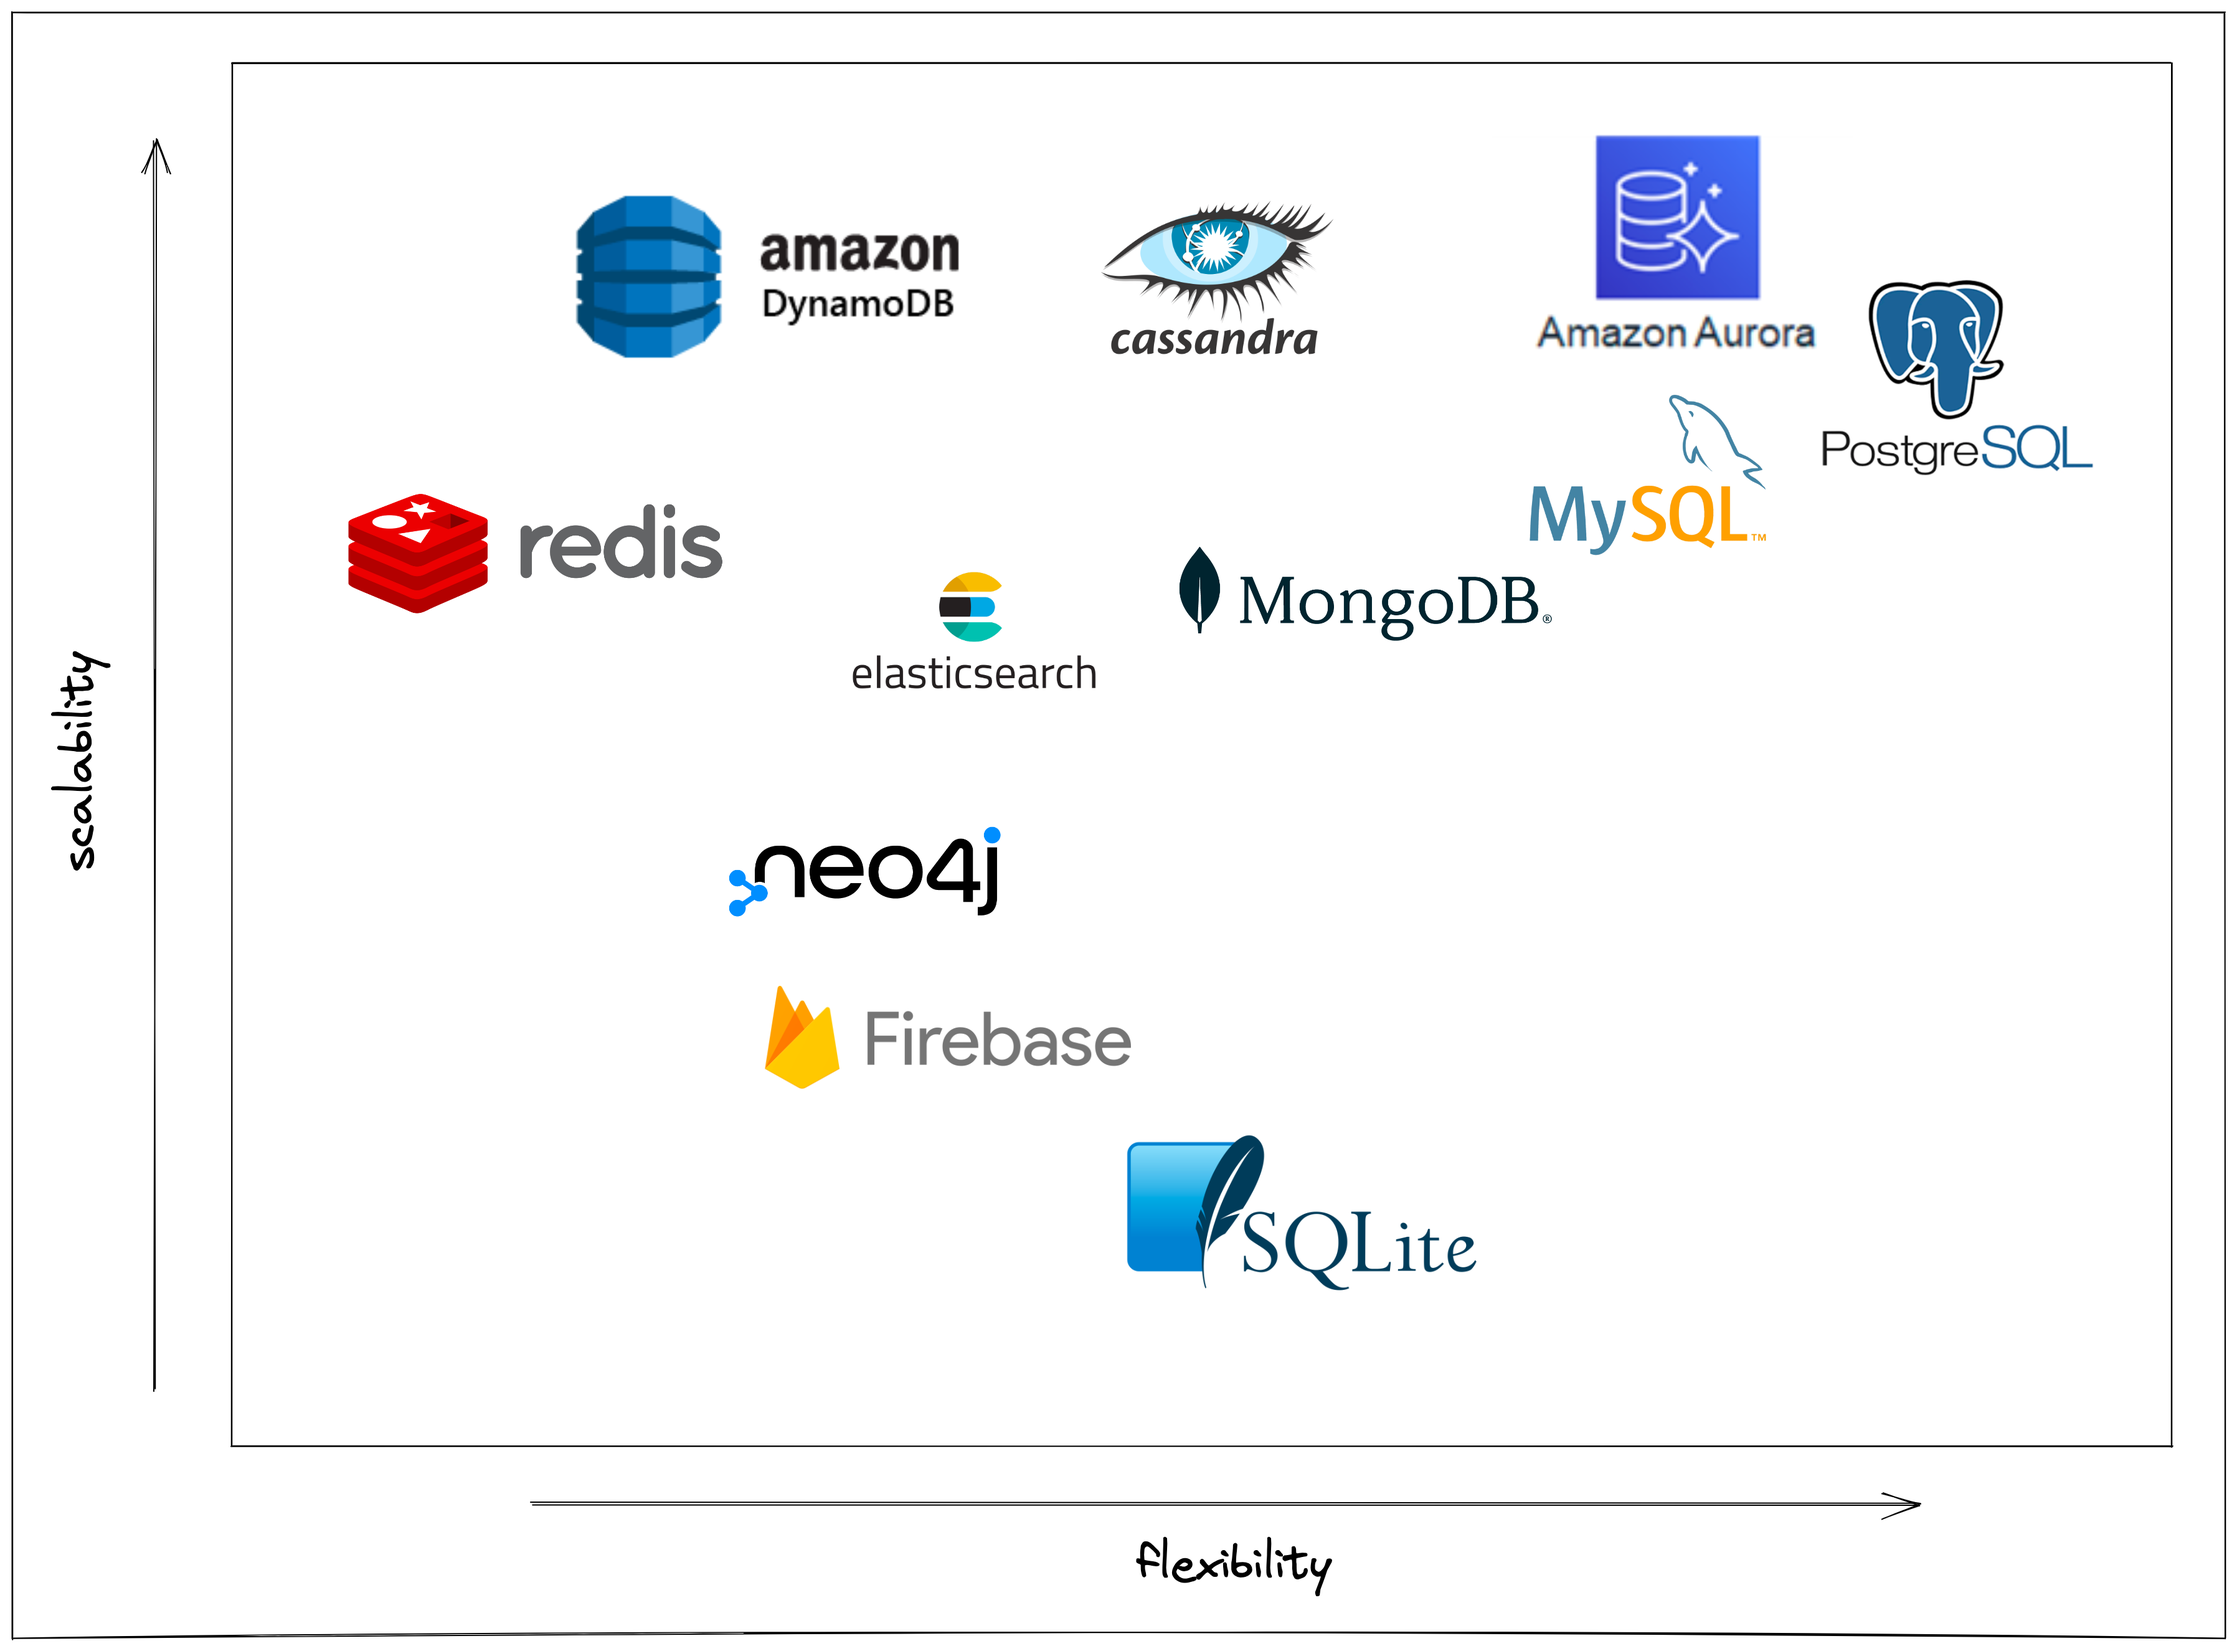
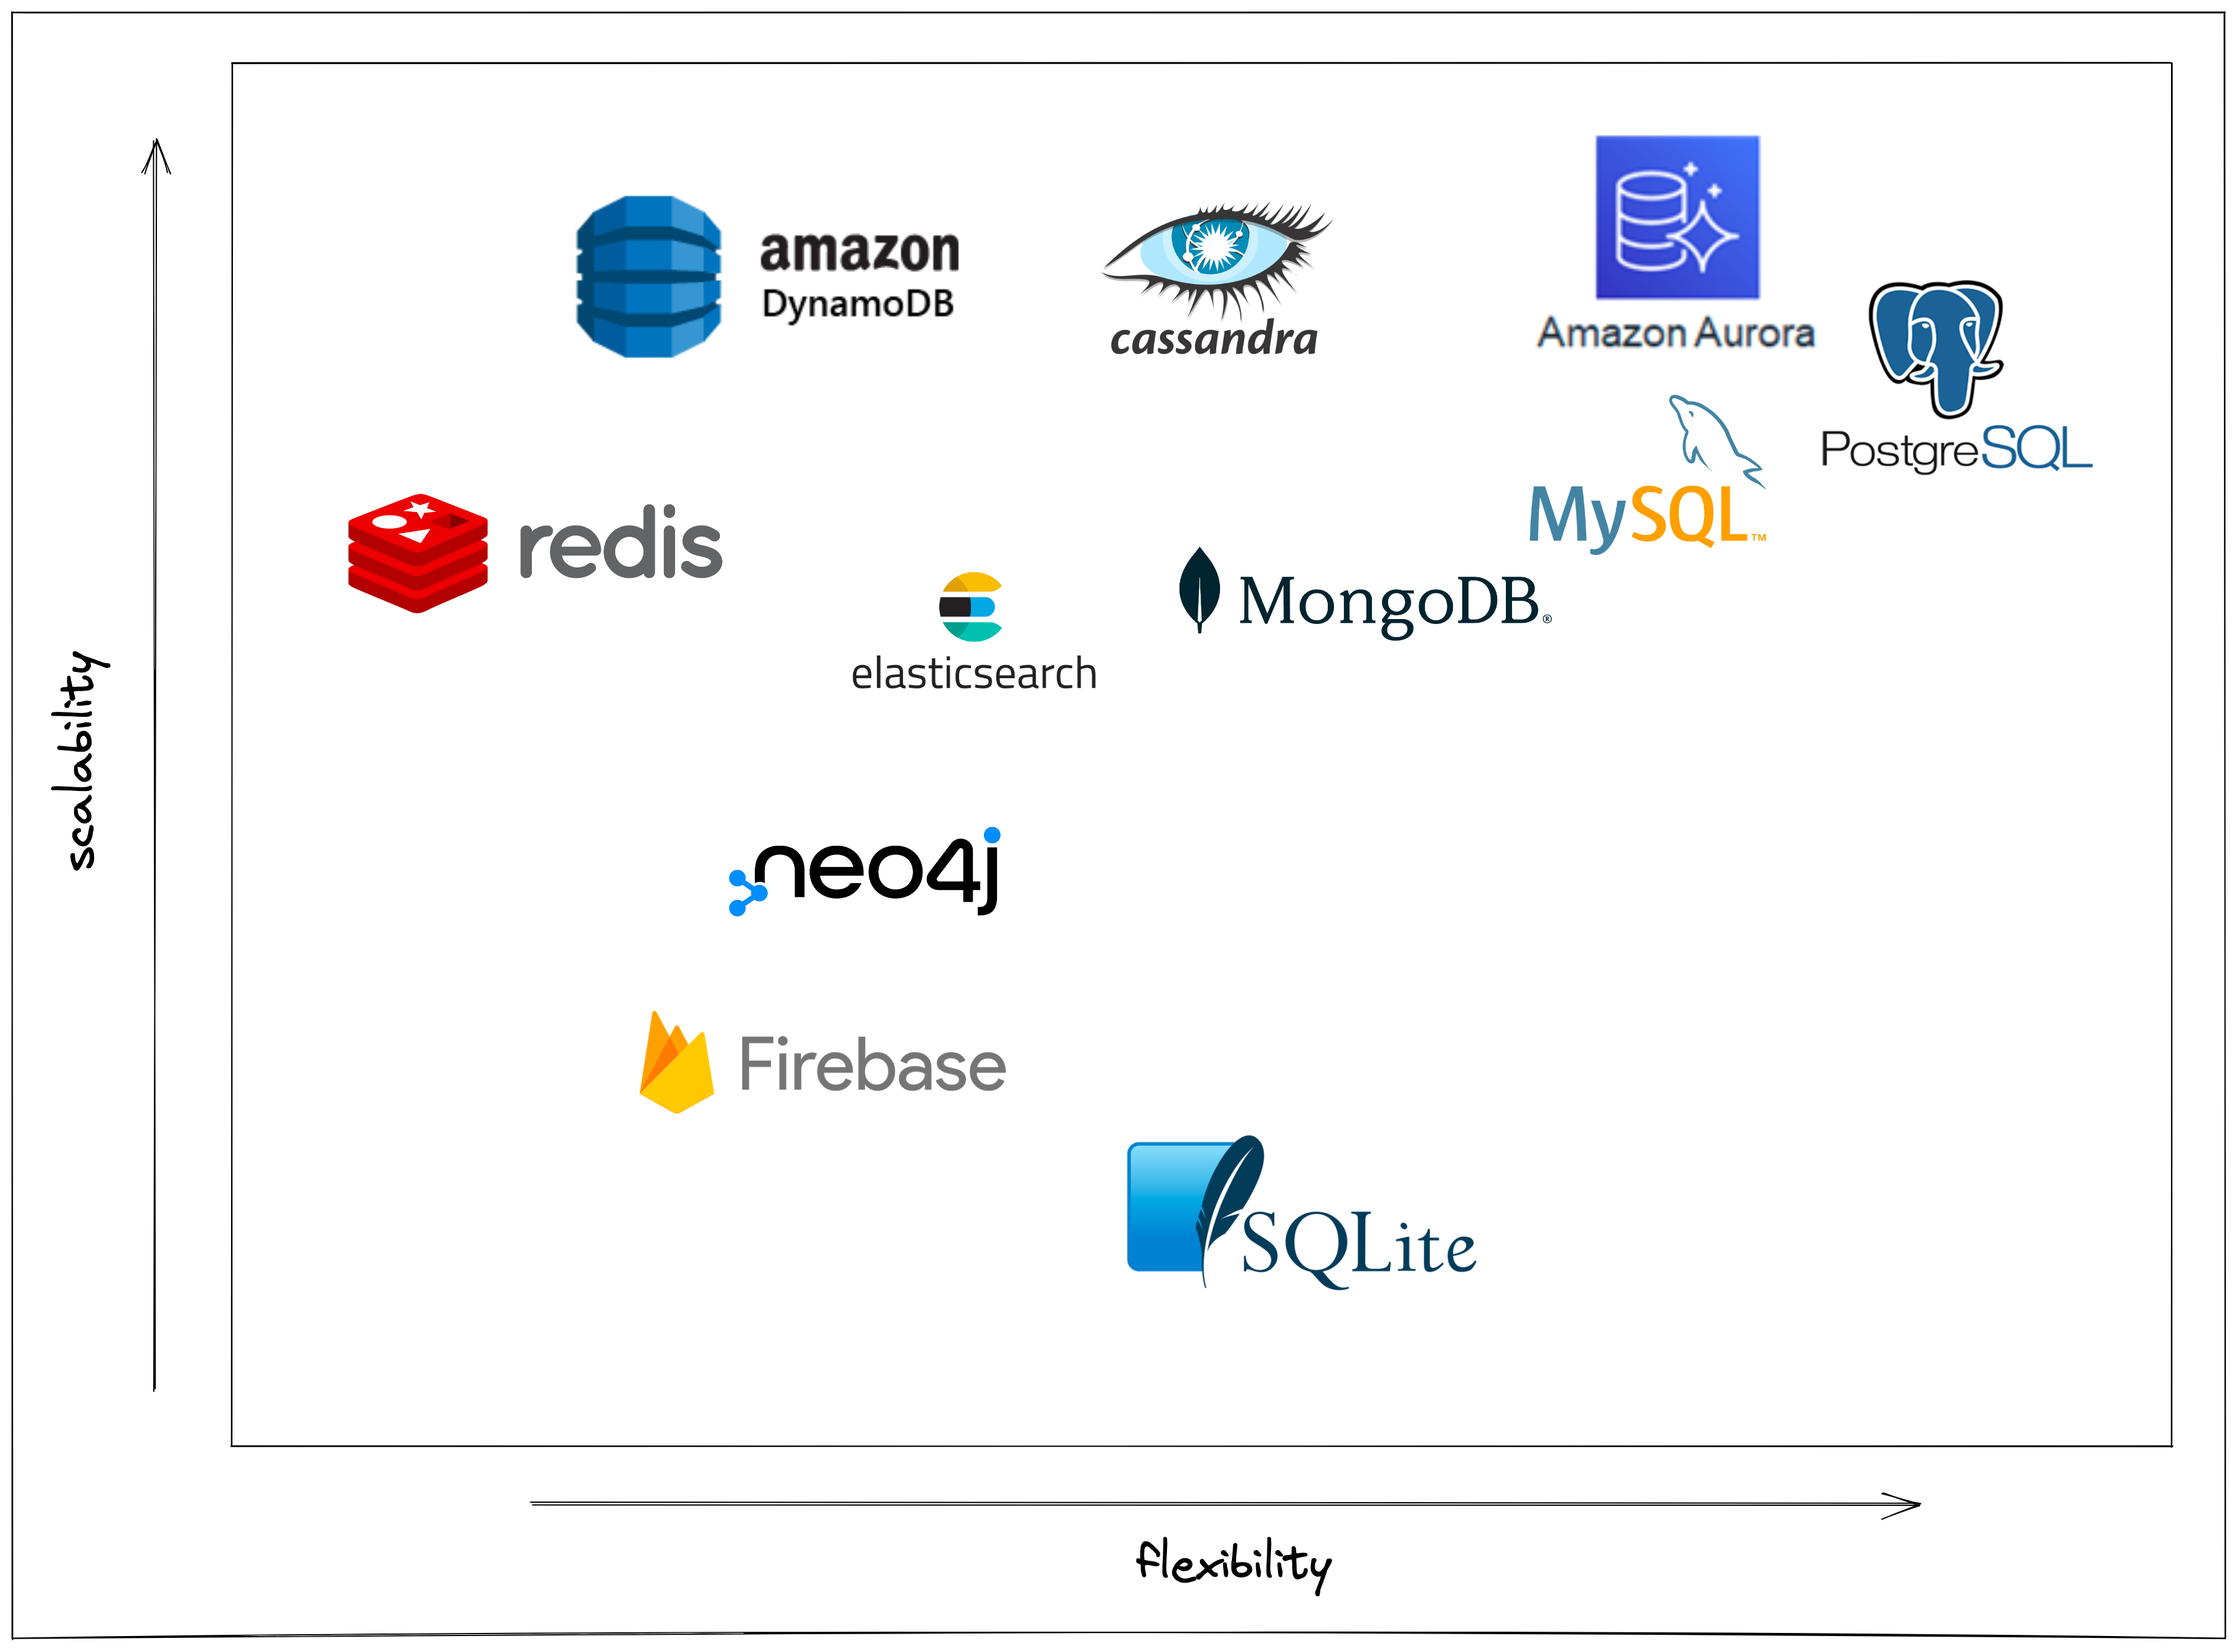
update

Changed region(s): [[0.2806, 0.5877, 0.4989, 0.6805]]

diff --git a/posts/8_my_stack.md b/posts/8_my_stack.md
@@ -1,32 +1,33 @@
 ---
-title: There's more than one way to skin a cat - My Stack
+title: There's more than one way to skin a cat - Picking The Best Stack
 publish_date: 2022-11-19
 ---
 
-# There's more than one way to skin a cat.
-
-When building an internet application, there is a million ways to do it. The core conponets of a stack boil down to three main parts. A display layer, logic layer, and data store layer.
-
-![three components of a stack](../photos/stack.png)
-
-Most of the worlds code is written for the internet. There's game dev, embedded systems, data science and others but the majority of code primarly revolves around web, mobile, and backend development.
-
-There's a million different ways you can piece together technologies to build a web application. In this article I explain my approach for the stack that I choose to build with. After you read, send me a message with your thoughts.
+When building an internet application, there is a million ways to do it. With so many decisions to make, what is the best stack to pick? In this article I go through my thought process on how I chose to build with the stack I use.
 
 # Philosophy For Picking A Stack
 
-With that ground level laid, let's dive into the actual stack. This stack is chosen with these two philosophies in mind.
+When I am making these kinds of decisions, I look at it through two main lenses.
 
 > Maximize developer productivity
 
-> Minimize technical debt
+Maximizing developer productivity means building only what is unique about what you are building. If you need auth, a web framework, a backend framework, etc, then just pull in something that's already been built before. There's no need to build that again when there are some really awesome open source solutions.
 
-Maximizing developer productivity means building only what is unique about what you are building. If you need auth, a web framework, a backend framework, etc, then just pull in something that's already been built before. There's no need to build that again when the solutions out there are really good and they are open source.
+In two of my diagrams I use the word `modernness` on the Y axis. "Modernness" has a direct correlation with maximizing developer productivity. 
+
+> Minimize technical debt
 
 Minimizing technical debt means never building something that engineers are going to have to rewrite sometime down the road. It takes 5x longer to fix technical debt than it is to just do it right in the first place. This includes picking a stack that scales. I've seen so many companies pick a stack "in the name of speed" only to be hammered when they have to rebuild it differently down the road.
 
-Some examples include companies that start with Firebase. Firebase is cute when you are starting because it takes care of a lot of heavy lifting. It becomes a nightmare though when you need switch off of it. Another example is companies that picked Ruby on Rails. It looks good in the beginning with all of the batteries included. It becomes a nightmare at scale when you have more than 5 engineers working on it.
+In two of my diagrams I use the word `production readiness` on the X axis. "Production readiness" has a direct correlation with minimizing technical debt. 
 
+<!-- Some examples include companies that start with Firebase. Firebase is cute when you are starting because it takes care of a lot of heavy lifting. It becomes a nightmare though when you need switch off of it. Another example is companies that picked Ruby on Rails. It looks good in the beginning with all of the batteries included. It becomes a nightmare at scale when you have more than 5 engineers working on it. -->
+
+# Components Of A Stack
+
+The core conponets of a stack boil down to three main parts. A display layer, logic layer, and data store layer.
+
+![three components of a stack](../photos/stack.png)
 # Choosing The Frontend Framework
 
 ![Many different frontend frameworks](../photos/frontend_frameworks.png)
@@ -37,15 +38,15 @@ I like to group the worlds most popular languages into four buckets for backend 
 
 ![four language groups](../photos/language_groups.png)
 
-> C and C++ - They are the OGs, powerful, old, lots of footguns
+> `C and C++` - They are the OGs, powerful, old, lots of footguns
 
-> C# and Java - Enterprise heavyweights, powerful, verbose, legacy
+> `C# and Java` - Enterprise heavyweights, powerful, verbose, legacy
 
-> JavaScript, Ruby, Python, PHP - Easy to learn, interpreted, dynamically typed, slow, lots of logic errors
+> `JavaScript, Ruby, Python, and PHP` - Easy to learn, interpreted, dynamically typed, slow performance, lots of logic errors
 
-> Rust and Go - Compiled, strongly typed, extremely fast, modern
+> `Rust and Go` - Compiled, strongly typed, extremely fast, modern
 
-You may have noticed that TypeScript isn't in a group. TypeScript is in a very interesting place in the current landscape. It's more production ready than its other interpreted counterparts but it still suffers from being quite slow in performance and it's type system isn't good as it should be to be considered amongst the other more production ready langugages.
+<!-- You may have noticed that TypeScript isn't in a group. TypeScript is in a very interesting place in the current landscape. It's more production ready than its other interpreted counterparts but it still suffers from being quite slow in performance and it's type system isn't good as it should be to be considered amongst the other more production ready langugages.
 
 These groups are sorted on two axes. Modernness and Production Readiness.
 
@@ -55,19 +56,33 @@ This one is pretty straight forward. This looks at things like developer product
 
 #### Modernness
 
-This one may not seem as important or straight forward but it is critical to developer productivity. One example is the package management experience. Compare the C++ package management experience vs Rust's package management experience. It's a night and day difference. There's also a lot of language specific differences that make some langauages much easier to code with than others.
+This one may not seem as important or straight forward but it is critical to developer productivity. One example is the package management experience. Compare the C++ package management experience vs Rust's package management experience. It's a night and day difference. There's also a lot of language specific differences that make some langauages much easier to code with than others. -->
 
 #### Rust
 
-In my opinion, Rust is the clear winner. It's uncomprimising in almost every way and it has an extremely modern feel that has made it the most loved language for the past 7 years. ([2016](https://insights.stackoverflow.com/survey/2016#technology-most-loved-dreaded-and-wanted), [2017](https://insights.stackoverflow.com/survey/2017#most-loved-dreaded-and-wanted), [2018](https://insights.stackoverflow.com/survey/2018#technology-_-most-loved-dreaded-and-wanted-languages), [2019](https://insights.stackoverflow.com/survey/2019#technology-_-most-loved-dreaded-and-wanted-languages), [2020](https://insights.stackoverflow.com/survey/2020#most-loved-dreaded-and-wanted), [2021](https://insights.stackoverflow.com/survey/2021/#technology-most-loved-dreaded-and-wanted) and [2022](https://survey.stackoverflow.co/2022/#section-most-loved-dreaded-and-wanted-programming-scripting-and-markup-languages))
+In my opinion, Rust is the clear winner. It's uncomprimising in almost every way and it has an extremely modern feel that has made it the most loved language for the past 7 years ([2016](https://insights.stackoverflow.com/survey/2016#technology-most-loved-dreaded-and-wanted), [2017](https://insights.stackoverflow.com/survey/2017#most-loved-dreaded-and-wanted), [2018](https://insights.stackoverflow.com/survey/2018#technology-_-most-loved-dreaded-and-wanted-languages), [2019](https://insights.stackoverflow.com/survey/2019#technology-_-most-loved-dreaded-and-wanted-languages), [2020](https://insights.stackoverflow.com/survey/2020#most-loved-dreaded-and-wanted), [2021](https://insights.stackoverflow.com/survey/2021/#technology-most-loved-dreaded-and-wanted) and [2022](https://survey.stackoverflow.co/2022/#section-most-loved-dreaded-and-wanted-programming-scripting-and-markup-languages)).
 
 ![Most loved languages in 2022](../photos/most_loved_languages.png)
+
+#### TypeScript
 
 As a side note, you may have noticed that TypeScript is floating in limbo in the diagram above. It's in a very unique position. As I explained above, TypeScript is the go-to language for the frontend with almost no contest. Because TypeScript is inevitable, there could be a use case for TypeScript in the backend. There's also so many ways to deploy TypeScript that it makes it extremely easy to deploy and scale. In fact, Next.js has a way to write backend functions embeded right in the framework. If you want to use TypeScript for the whole stack, I would recommend checking out [Create T3 App](https://create.t3.gg/).
 
 # Choosing The Database
 
+The database technology that you choose is probably the most important aspect of your stack. It's fun to choose bleeding edge technologies for the frontend and backend, but you should pick the most reliable option for your database technology.
+
+There are a lot of databases that have a specific use case such as redis or elasticsearch but for this we are going to focus on picking a core database technology.
+
+Postgres is going to be the best option for many reasons. It is the most flexible giving you the ability to store any kind of data that you would like to. It's open source which means that you can port it wherever you would like. It's quite scalable with the option to move it to something like Aurora down the road.
+
+Avoid technologies such as Firebase as there is an extreme amount of technical debt that is incurred in the long term compared to the marginal ammount of increased developer speed in the short term.
+
 ![Matrix of databases](../photos/databases.png)
+
+Along with Rust, Postgres ranks high as one of the most loved database technologies for 6 years in a row.
+
+![Most loved databases](../photos/most_loved_databases.png)
 
 # The Stack
 
